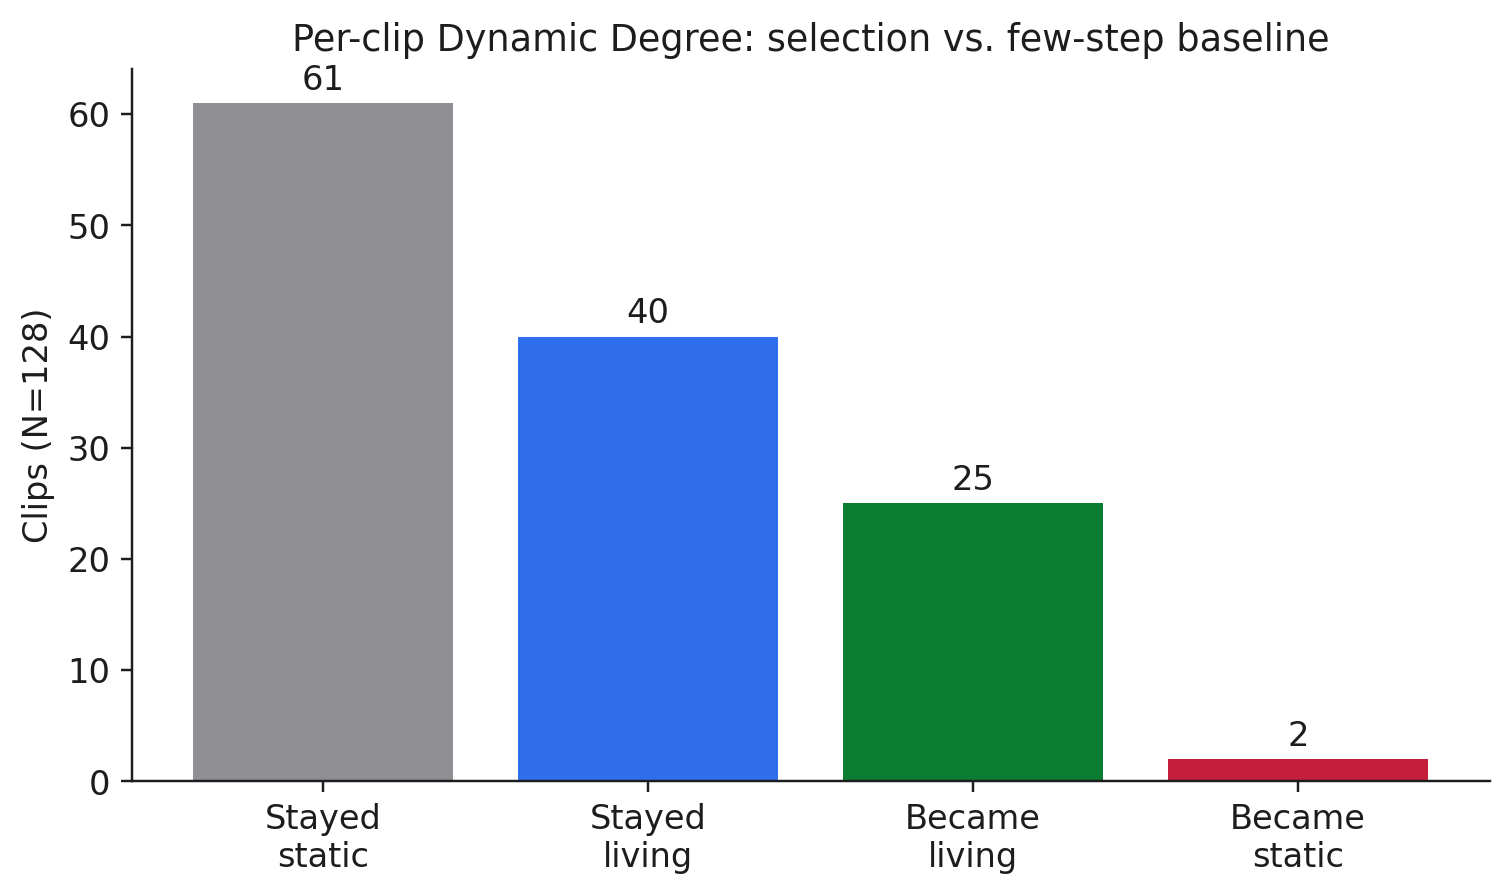
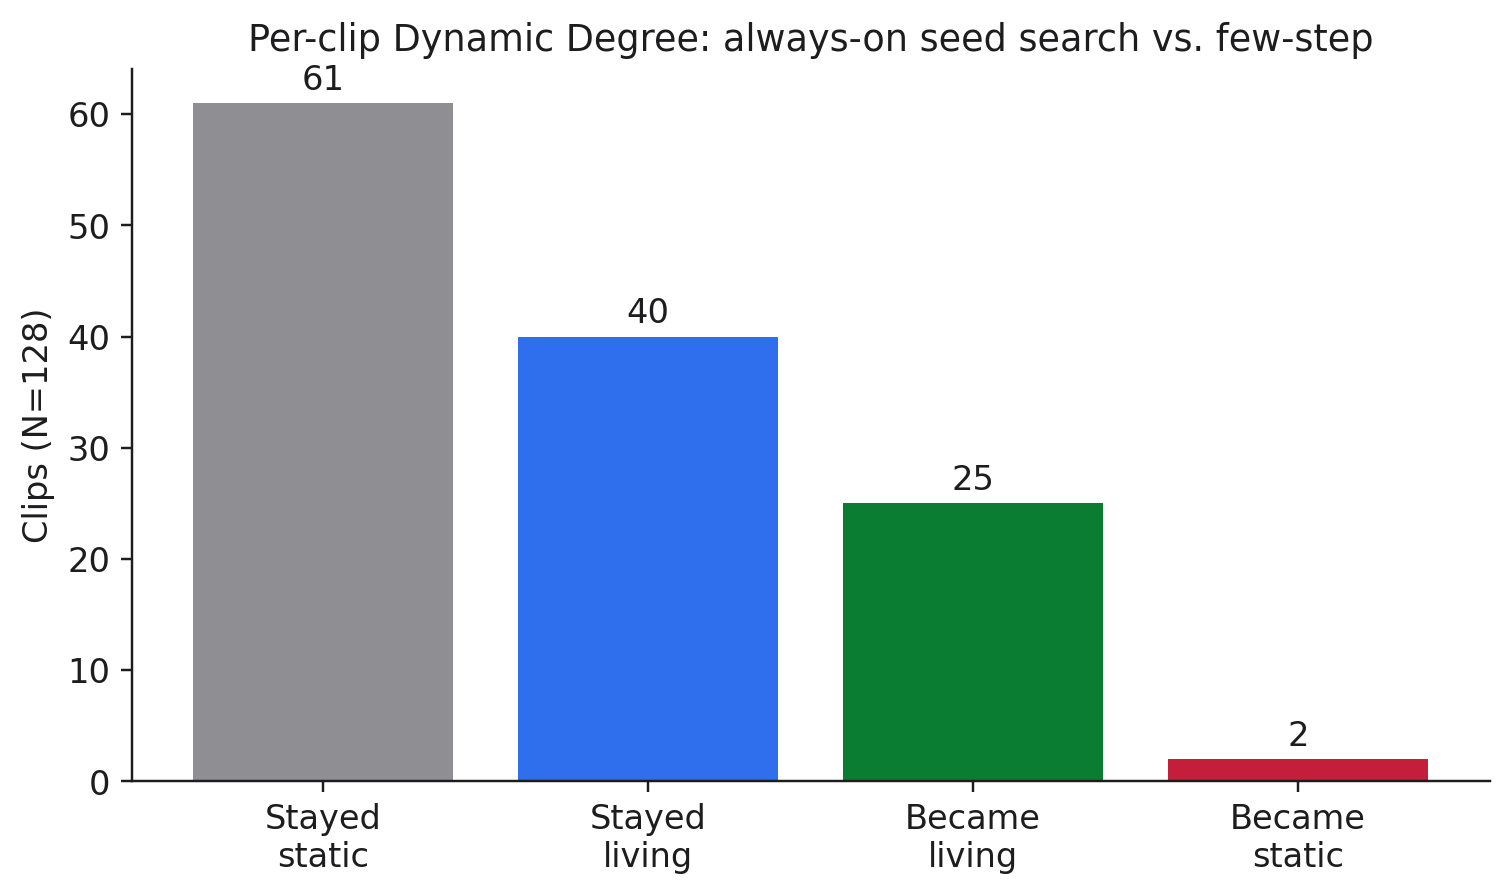
Name always-on seed search as standard Best-of-N in the sponsor report; drop invented-selection framing.

Changed region(s): [[0.1555, 0.0312, 0.9021, 0.0625]]

diff --git a/scripts/plot_sponsor_summer_figures.py b/scripts/plot_sponsor_summer_figures.py
@@ -1,7 +1,8 @@
 #!/usr/bin/env python3
 """Sponsor-safe charts for the summer 2026 progress note.
 
-Labels stay generic. No unpublished method names.
+Always-on seed search is a known sampling practice. Do not name
+unpublished methods.
 """
 from __future__ import annotations
 
@@ -120,7 +121,7 @@ def fig_selection_dyn_cost() -> None:
     labels = [
         "Few-step",
         "Streaming",
-        "Selection",
+        "Seed search",
     ]
     dyn = [32.8, 28.9, 50.8]
     wall = [108, 47, 354]
@@ -152,7 +153,7 @@ def fig_transitions() -> None:
     fig, ax = plt.subplots(figsize=(7.0, 4.2))
     ax.bar(labs, vals, color=cols)
     ax.set_ylabel("Clips (N=128)")
-    ax.set_title("Per-clip Dynamic Degree: selection vs. few-step baseline")
+    ax.set_title("Per-clip Dynamic Degree: always-on seed search vs. few-step")
     for i, v in enumerate(vals):
         ax.text(i, v + 1.2, str(v), ha="center")
     _save(fig, "fig5_selection_clip_transitions.png")
@@ -163,7 +164,7 @@ def fig_identity_iq() -> None:
     pts = [
         ("Few-step baseline", 0.666, 72.07, 42),
         ("Streaming baseline", 0.685, 71.52, 37),
-        ("Selection", 0.661, 72.19, 65),
+        ("Always-on seed search", 0.661, 72.19, 65),
     ]
     fig, ax = plt.subplots(figsize=(7.2, 4.4))
     for lab, x, y, k in pts:
@@ -171,7 +172,7 @@ def fig_identity_iq() -> None:
         ax.annotate(lab, (x, y), textcoords="offset points", xytext=(7, 7))
     ax.set_xlabel("Subject consistency (median)")
     ax.set_ylabel("Imaging quality (median)")
-    ax.set_title("Selection holds identity and picture quality while motion rises")
+    ax.set_title("Seed search holds identity and picture quality while motion rises")
     _save(fig, "fig6_identity_vs_picture.png")
 
 

diff --git a/scripts/export_sponsor_frame_strips.py b/scripts/export_sponsor_frame_strips.py
@@ -85,14 +85,14 @@ def main() -> int:
     still_sel = _find(root, "panda_0001", "always")
     if woke_base and woke_sel:
         _sheet(
-            [("Published baseline", woke_base), ("Inference-time selection", woke_sel)],
+            [("Few-step baseline", woke_base), ("Always-on seed search", woke_sel)],
             out / "fig7_frames_became_living.png",
         )
     else:
         print(f"missing living-flip pair under {root}")
     if still_base and still_sel:
         _sheet(
-            [("Published baseline", still_base), ("Inference-time selection", still_sel)],
+            [("Few-step baseline", still_base), ("Always-on seed search", still_sel)],
             out / "fig8_frames_stayed_static.png",
         )
     else:

diff --git a/sweep_experiment/reports/paper_tables/2026-09-20_sponsor_summer_report.md b/sweep_experiment/reports/paper_tables/2026-09-20_sponsor_summer_report.md
@@ -99,15 +99,15 @@ problem.
 ![Native ~60 s autoregressive drift (percent versus the first chunk)](sponsor_summer_2026_figures/fig3_long_horizon_drift.png)
 
 Sampling-space work means: keep the backbone frozen, and intervene on
-the *draw* — emit more than one future and pick; change what later
+the *draw* — try several random seeds and keep one; change what later
 chunks are allowed to attend to; or edit the path inside a chunk. Those
 are classes, not a recipe.
 
-Distillation is the cost conversation. Selection among multiple futures
-can raise quality, but it multiplies wall time. A later student that
-sees the same recipe in training can, in principle, amortize that
-search into one forward pass. We treat distillation as a *direction*,
-not as a method we are ready to specify here.
+Distillation is the cost conversation. Always-on seed search can raise
+quality, but it multiplies wall time. A later student that sees the
+same sampling recipe in training can, in principle, amortize those
+extra draws into one forward pass. We treat distillation as a
+*direction*, not as a method we are ready to specify here.
 
 ---
 
@@ -115,36 +115,34 @@ not as a method we are ready to specify here.
 
 The citeable table is 30 s video continuation on 128 clips, using a
 public few-step student and a public streaming baseline already
-reported in the 2025–26 long-horizon literature. We compare those
-published systems to **inference-time selection among the student’s
-own futures**.
+reported in the 2025–26 long-horizon literature. Against those
+systems we also run **always-on seed search**: draw several random
+seeds for each later chunk and keep the best. That is standard
+Best-of-N sampling. We did not invent it. We report it because
+randomness in the draw is a real lever on this stack — some
+seeds stay still, others keep moving.
 
 | | Subject | Imaging quality | Living clips | Seconds / clip |
 |---|---:|---:|---|---:|
 | Published few-step baseline | 0.666 | 72.07 | 32.8% (42 / 128) | 108 |
 | Published streaming baseline | 0.685 | 71.52 | 28.9% (37 / 128) | 47 |
-| Inference-time selection | 0.661 | 72.19 | **50.8% (65 / 128)** | 354 |
+| Always-on seed search | 0.661 | 72.19 | **50.8% (65 / 128)** | 354 |
 
-Selection is the quality method in this table. Living clips move from
-32.8% to 50.8% while Imaging Quality and subject consistency hold.
-Reconstruction versus the real tail is essentially unchanged. The
-tradeoff is cost: about **3×** the few-step baseline. The published
-streaming system is cheaper (47 s) and *loses* living motion while
-gaining identity — the two fight.
+Seed search is the quality row in this table. Living clips move
+from 32.8% to 50.8% while Imaging Quality and subject consistency
+hold. Reconstruction versus the real tail is essentially unchanged.
+The tradeoff is cost: about **3×** the few-step baseline. The
+published streaming system is cheaper (47 s) and *loses* living
+motion while gaining identity — the two fight.
 
 ![Living-clip rate and generation time on the 128-clip, 30 s table](sponsor_summer_2026_figures/fig4_selection_dyn_and_cost.png)
 
 The win is not a uniform lift. Twenty-five clips became living, two
 lost living, forty were already living, and sixty-one stayed still.
 
-![Per-clip Dynamic Degree transitions under inference-time selection](sponsor_summer_2026_figures/fig5_selection_clip_transitions.png)
+![Per-clip Dynamic Degree transitions under always-on seed search](sponsor_summer_2026_figures/fig5_selection_clip_transitions.png)
 
-![Selection sits with the few-step baseline on identity and picture quality](sponsor_summer_2026_figures/fig6_identity_vs_picture.png)
-
-A cheaper selection policy recovered most of the living-clip gain at
-somewhat lower wall time. We read that as an efficiency controller, not
-as a new idea — the academic literature already occupies “make search
-cheaper.”
+![Seed search sits with the few-step baseline on identity and picture quality](sponsor_summer_2026_figures/fig6_identity_vs_picture.png)
 
 **Other sampling-space classes did not give a quality win.** Rewarding
 a continuation that stays close to the opening raises subject
@@ -153,7 +151,7 @@ prior and a bad motion prior. Permanently pinning early frames in
 attention buys identity and taxes living motion — the same trade the
 published streaming baseline already makes. Edits to the noise path of
 a frozen few-step student either collapse Imaging Quality or invent
-camera motion the opening did not contain. Selecting among futures the
+camera motion the opening did not contain. Picking among seeds the
 student already knows how to emit is safe. Changing the path of a
 student that never trained on that path is not. That is also how the
 published few-step and streaming systems are trained: train with the
@@ -164,19 +162,18 @@ recipe you will use at test.
 ## Frame-by-frame examples
 
 The strips below are matched clips from the 128-clip table. Each row is
-one system; columns are 1 s, 10 s, 20 s, and 29 s. Row labels are
-generic on purpose.
+one system; columns are 1 s, 10 s, 20 s, and 29 s. Top is the published
+few-step baseline. Bottom is always-on seed search.
 
-**Clip A — selection woke a still continuation.** The published
-baseline stays near-static through the tail. Selection starts living
-motion without a visible identity rewrite.
+**Clip A — a different seed woke a still continuation.** The few-step
+baseline stays near-static through the tail. Always-on seed search
+starts living motion without a visible identity rewrite.
 
-![Clip A. Top: published few-step baseline. Bottom: inference-time selection](sponsor_summer_2026_figures/fig7_frames_became_living.png)
+![Clip A. Top: few-step baseline. Bottom: always-on seed search](sponsor_summer_2026_figures/fig7_frames_became_living.png)
 
-**Clip B — both stay still.** Selection does not invent motion on every
-prompt. Sixty-one of 128 clips remain static under both systems. That
-is part of the honest read: the method moves a minority of borderline
-clips, not the whole set.
+**Clip B — both stay still.** Seed search does not invent motion on
+every prompt. Sixty-one of 128 clips remain static under both systems.
+The randomness helps a minority of borderline clips, not the whole set.
 
 ![Clip B. Both rows stay static to 30 s](sponsor_summer_2026_figures/fig8_frames_stayed_static.png)
 
@@ -191,10 +188,10 @@ videos are present.
 The summer’s usable conclusion is a map, not a named gadget.
 
 Parameter-space test-time updates are the wrong handle on a saturated
-short task and do not flatten long-horizon drift. Sampling-space
-**selection** is the only class that raised living motion on the
-128-clip table without breaking picture quality, and it is expensive.
-Frozen path edits and permanently pinning the opening are unsafe or
+short task and do not flatten long-horizon drift. Always-on seed search is the only class in this table that raised
+living motion without breaking picture quality, and it is expensive.
+We treat that as a known sampling fact, not a contribution. Frozen
+path edits and permanently pinning the opening are unsafe or
 identity-for-motion trades.
 
 What we will work on next sits in the gap those facts leave. Long
@@ -202,14 +199,14 @@ sessions need some way to remember the opening after early frames leave
 a bounded attention window — without copying those frames forever,
 which published streaming systems already show collapses motion. They
 also need a way to refuse a freeze or a scene rewrite so it is not
-written back into whatever outlives the window. Separately, if
-selection remains the quality lever, a student trained under the same
-rule could in principle pay the search cost once, at train time.
+written back into whatever outlives the window. Separately, if seed
+search remains the quality lever, a student trained under the same
+draw could in principle pay the extra samples once, at train time.
 
-We are not specifying the mechanism here. The forthcoming academic
-paper is the place for that design. The first empirical check is
-intentionally small; we will not scale a table until quality holds on
-the official full-clip metrics.
+We are not specifying an unpublished mechanism here. The forthcoming
+academic paper is the place for that design. The first empirical check
+is intentionally small; we will not scale a table until quality holds
+on the official full-clip metrics.
 
 ---
 
@@ -219,7 +216,7 @@ the official full-clip metrics.
   percentages should not be over-read.
 - Dynamic Degree is a binary living/still call. We inspect clips when
   a Dyn-only lift could be flicker.
-- Selection cost is hardware- and implementation-dependent. The 3×
+- Seed-search cost is hardware- and implementation-dependent. The 3×
   figure is our wall on this stack, not a theoretical minimum.
 - This briefing does not include unpublished training runs.
 
